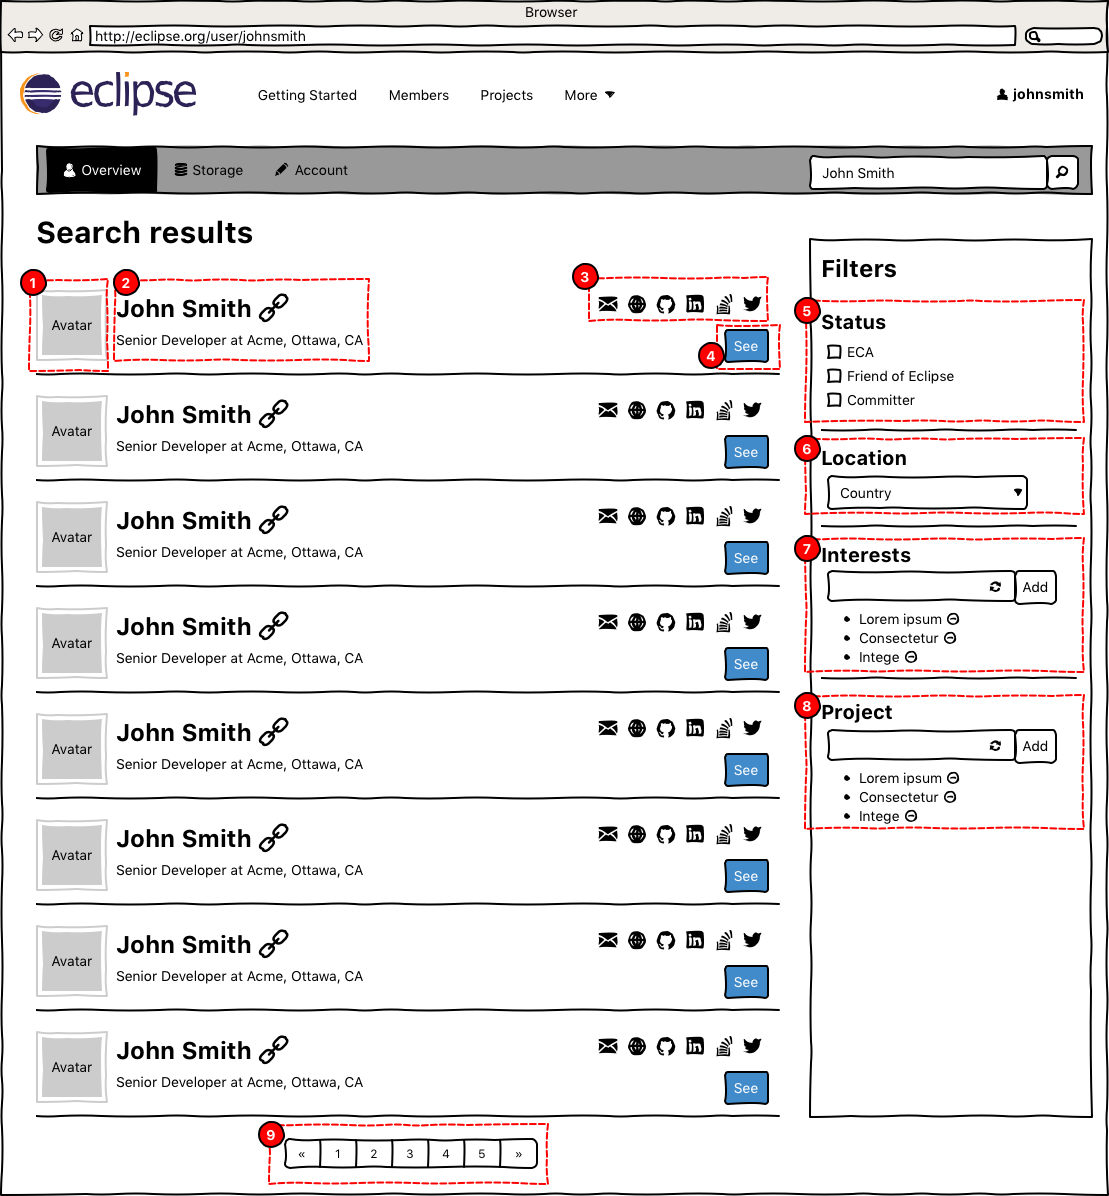
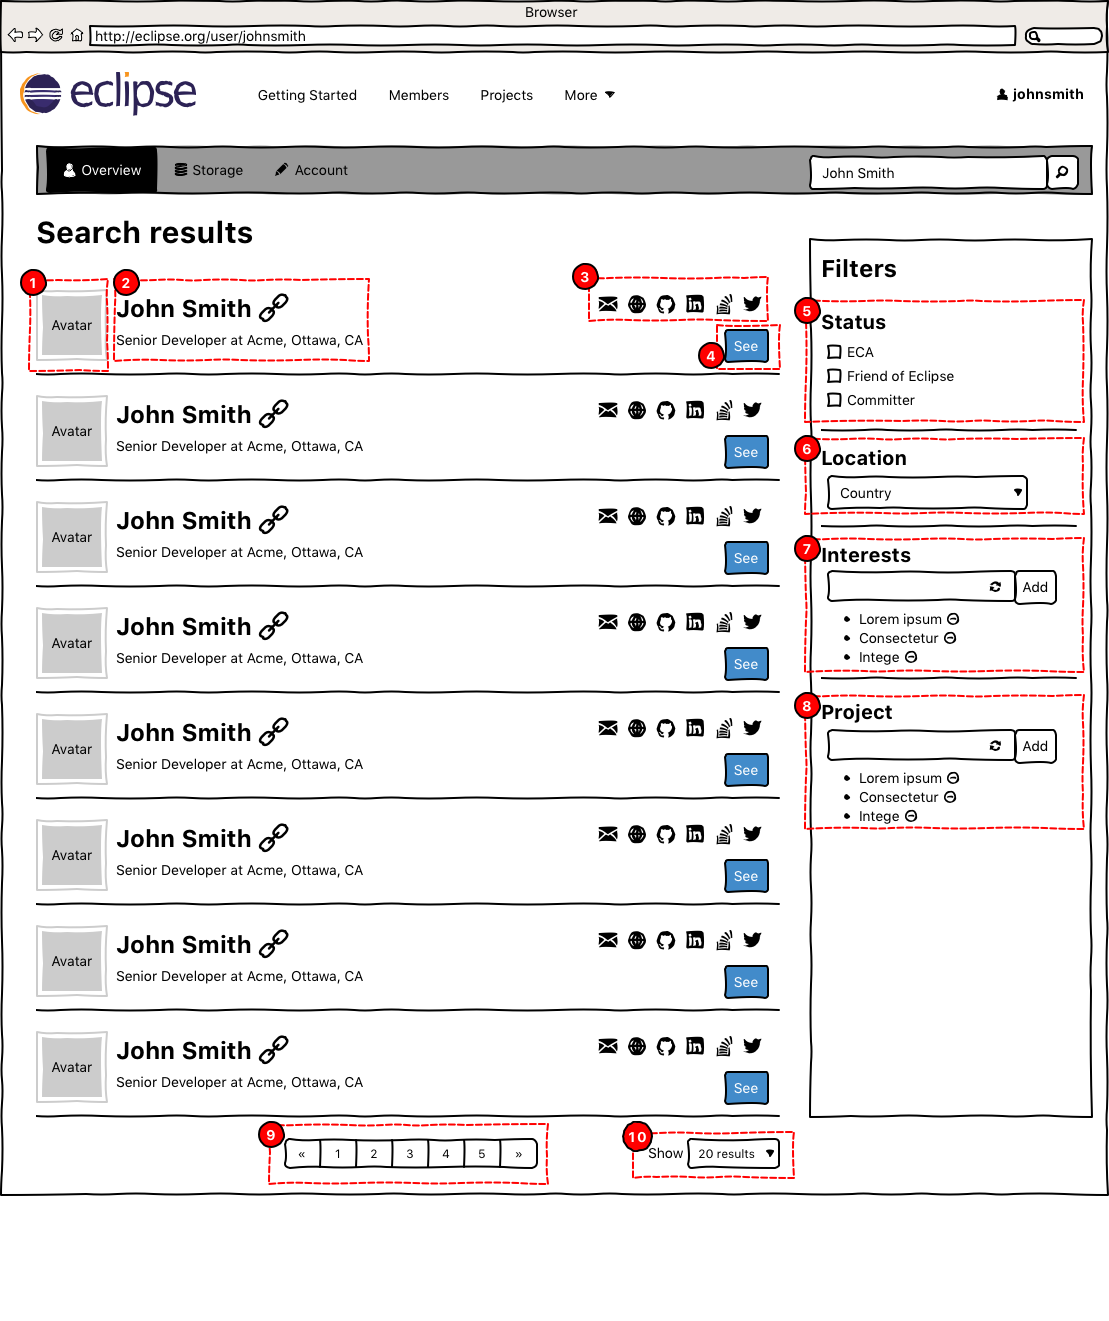
improving search results

diff --git a/user-profile_files/resources/story.js b/user-profile_files/resources/story.js
@@ -601,7 +601,7 @@ var story = {
     }
    ],
    "title": "search-results",
-   "height": 1196
+   "height": 1321
   }
  ],
  "title": "user-profile",
